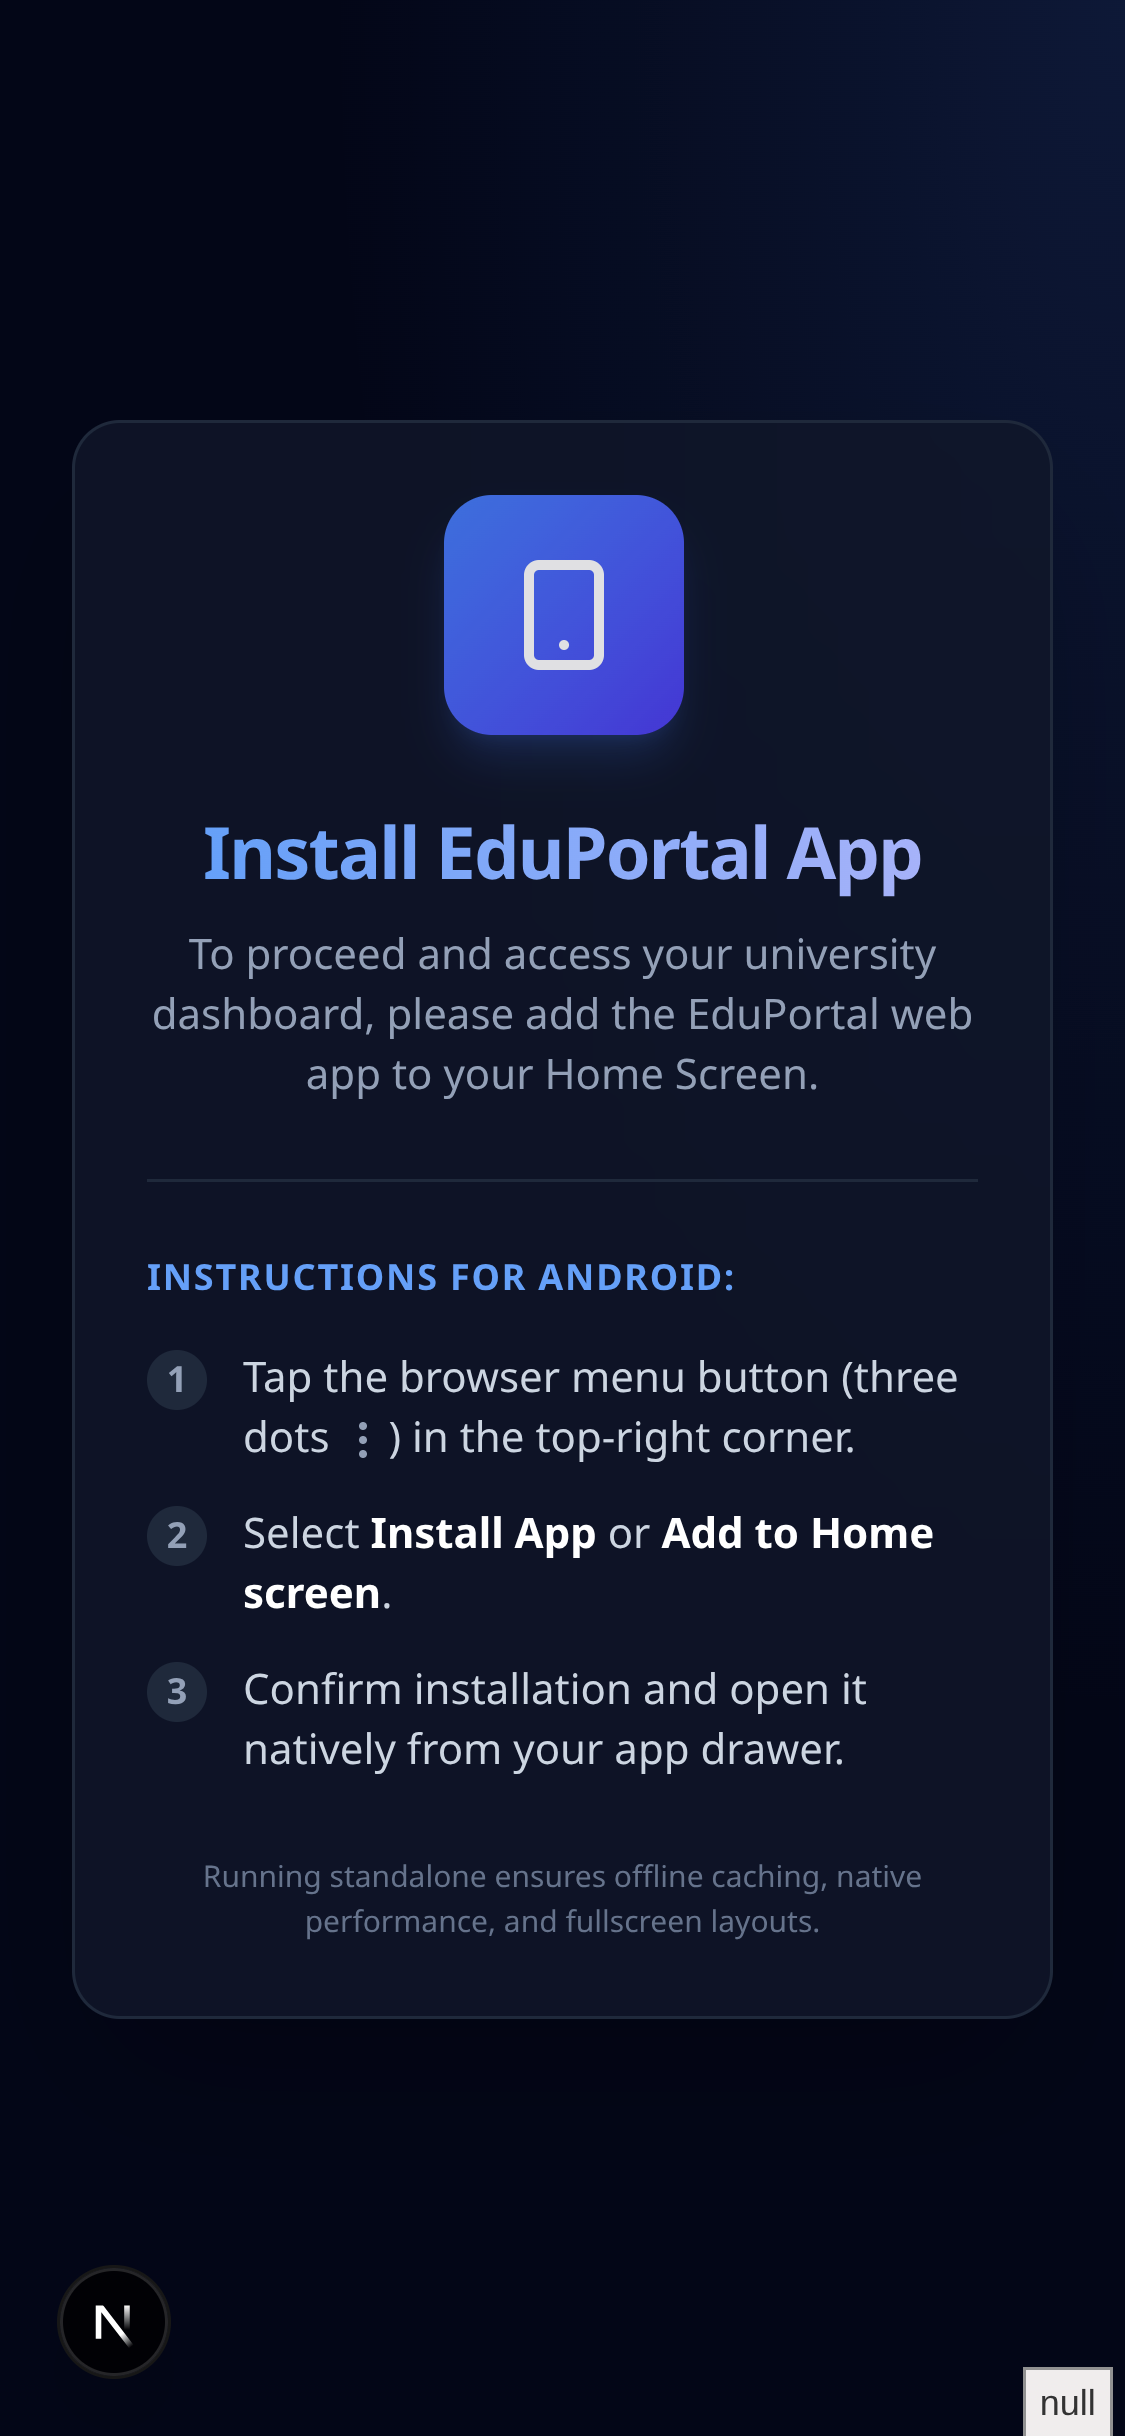
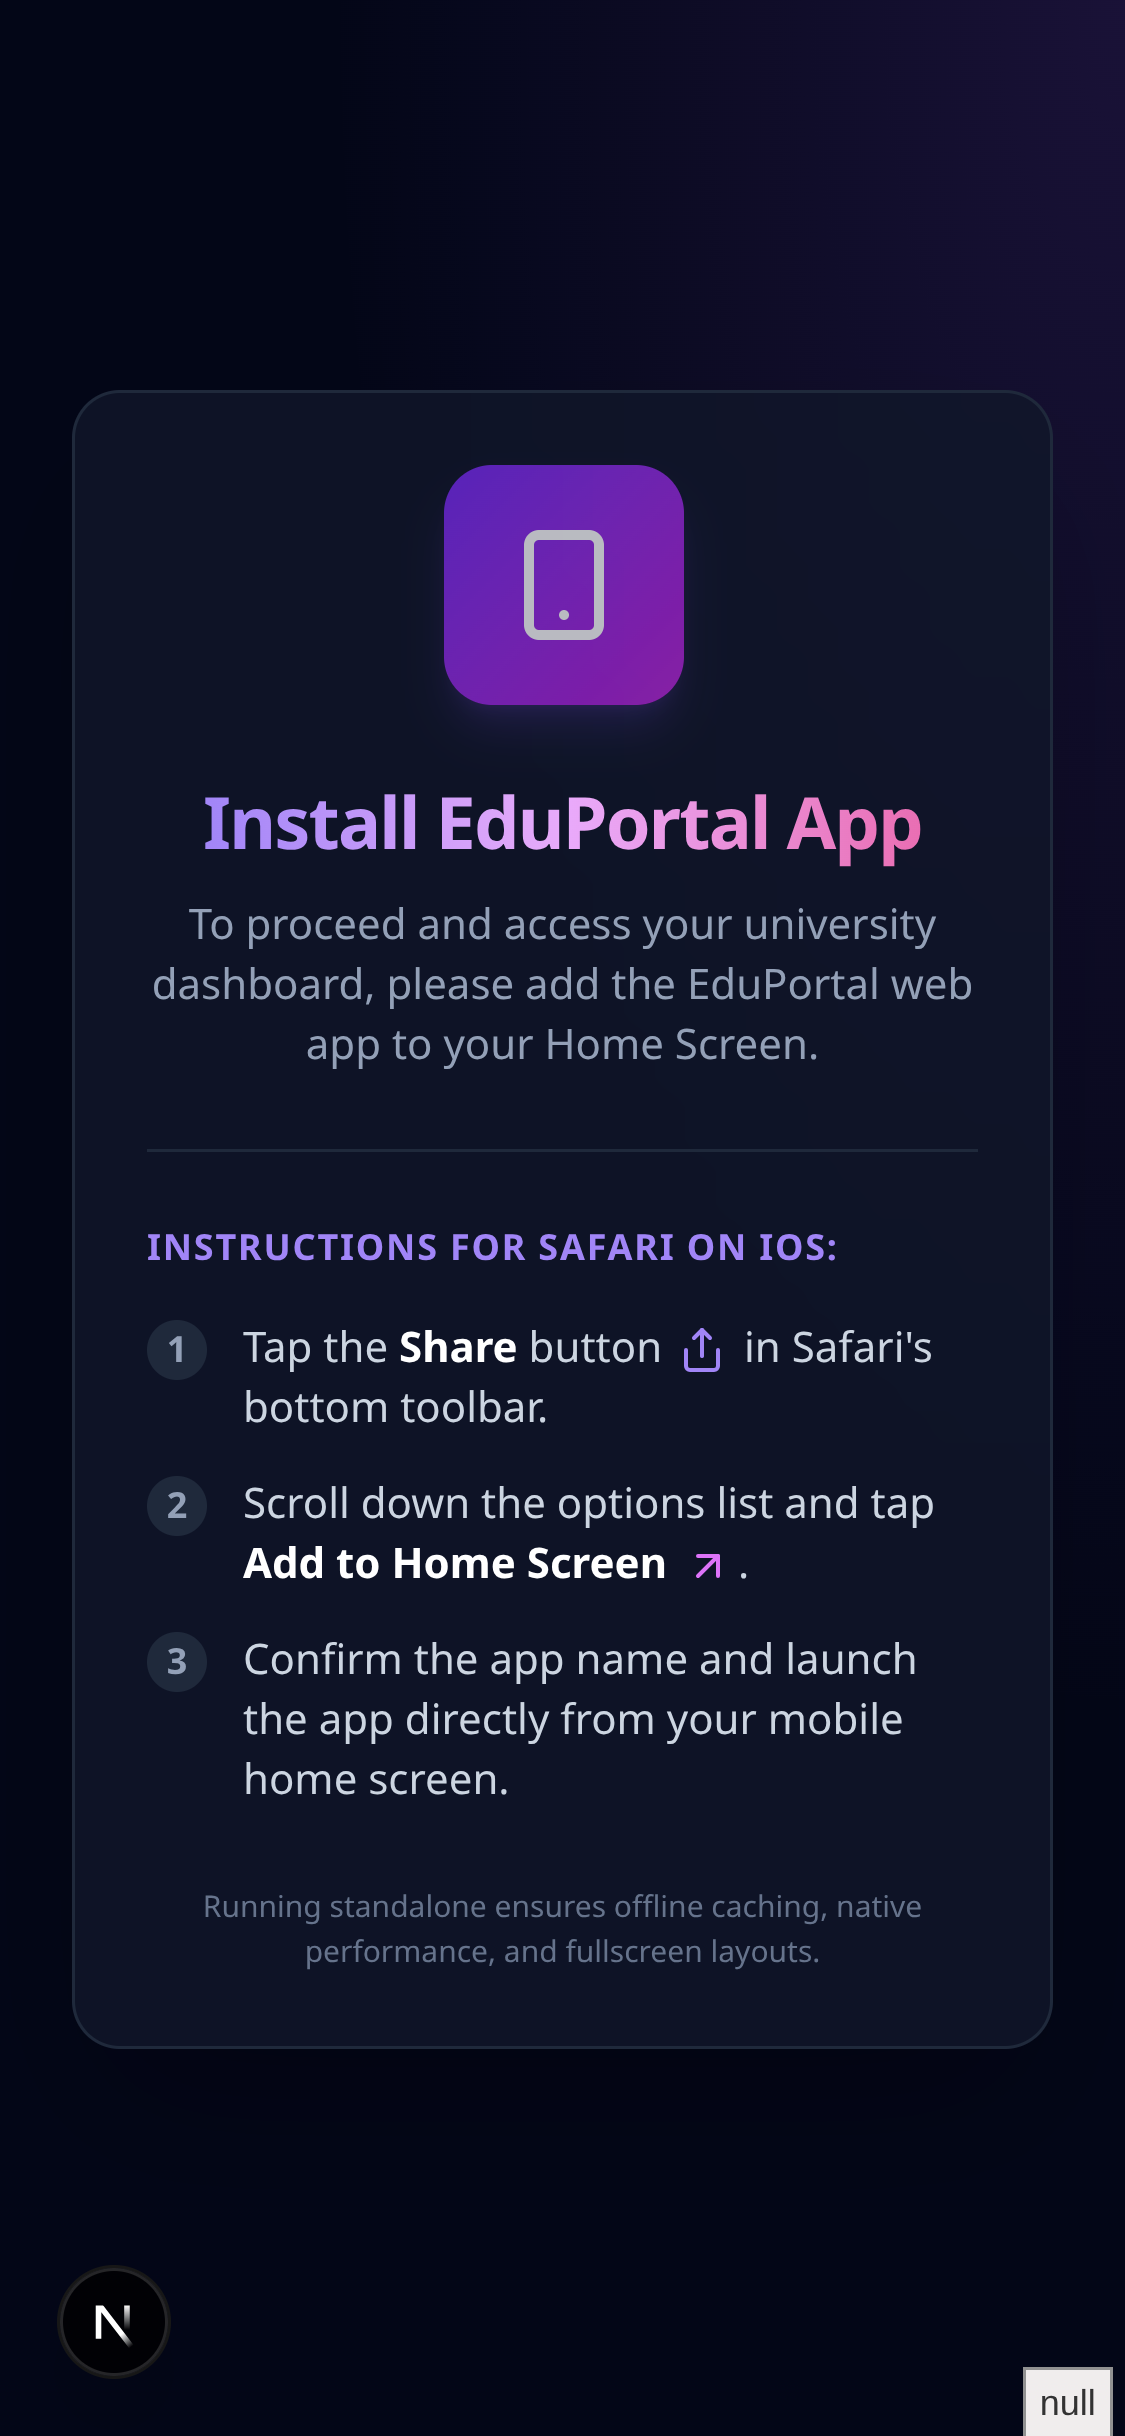
feat: add forceInstall support and update mobile screenshots

diff --git a/apps/web/src/components/layout/pwa-provider.tsx b/apps/web/src/components/layout/pwa-provider.tsx
@@ -66,9 +66,10 @@ export function PwaProvider({ children }: { children: ReactNode }) {
   };
 
   const isDev = process.env.NODE_ENV === 'development';
+  const forceInstall = typeof window !== 'undefined' && window.location.search.includes('force_install=true');
 
   // If the user is on mobile and not running the PWA in standalone mode, block with install instructions
-  if (isMobile && !isStandalone && !isDev) {
+  if (isMobile && !isStandalone && (!isDev || forceInstall)) {
     const isIOS = /iPhone|iPad|iPod/i.test(navigator.userAgent);
 
     return (
